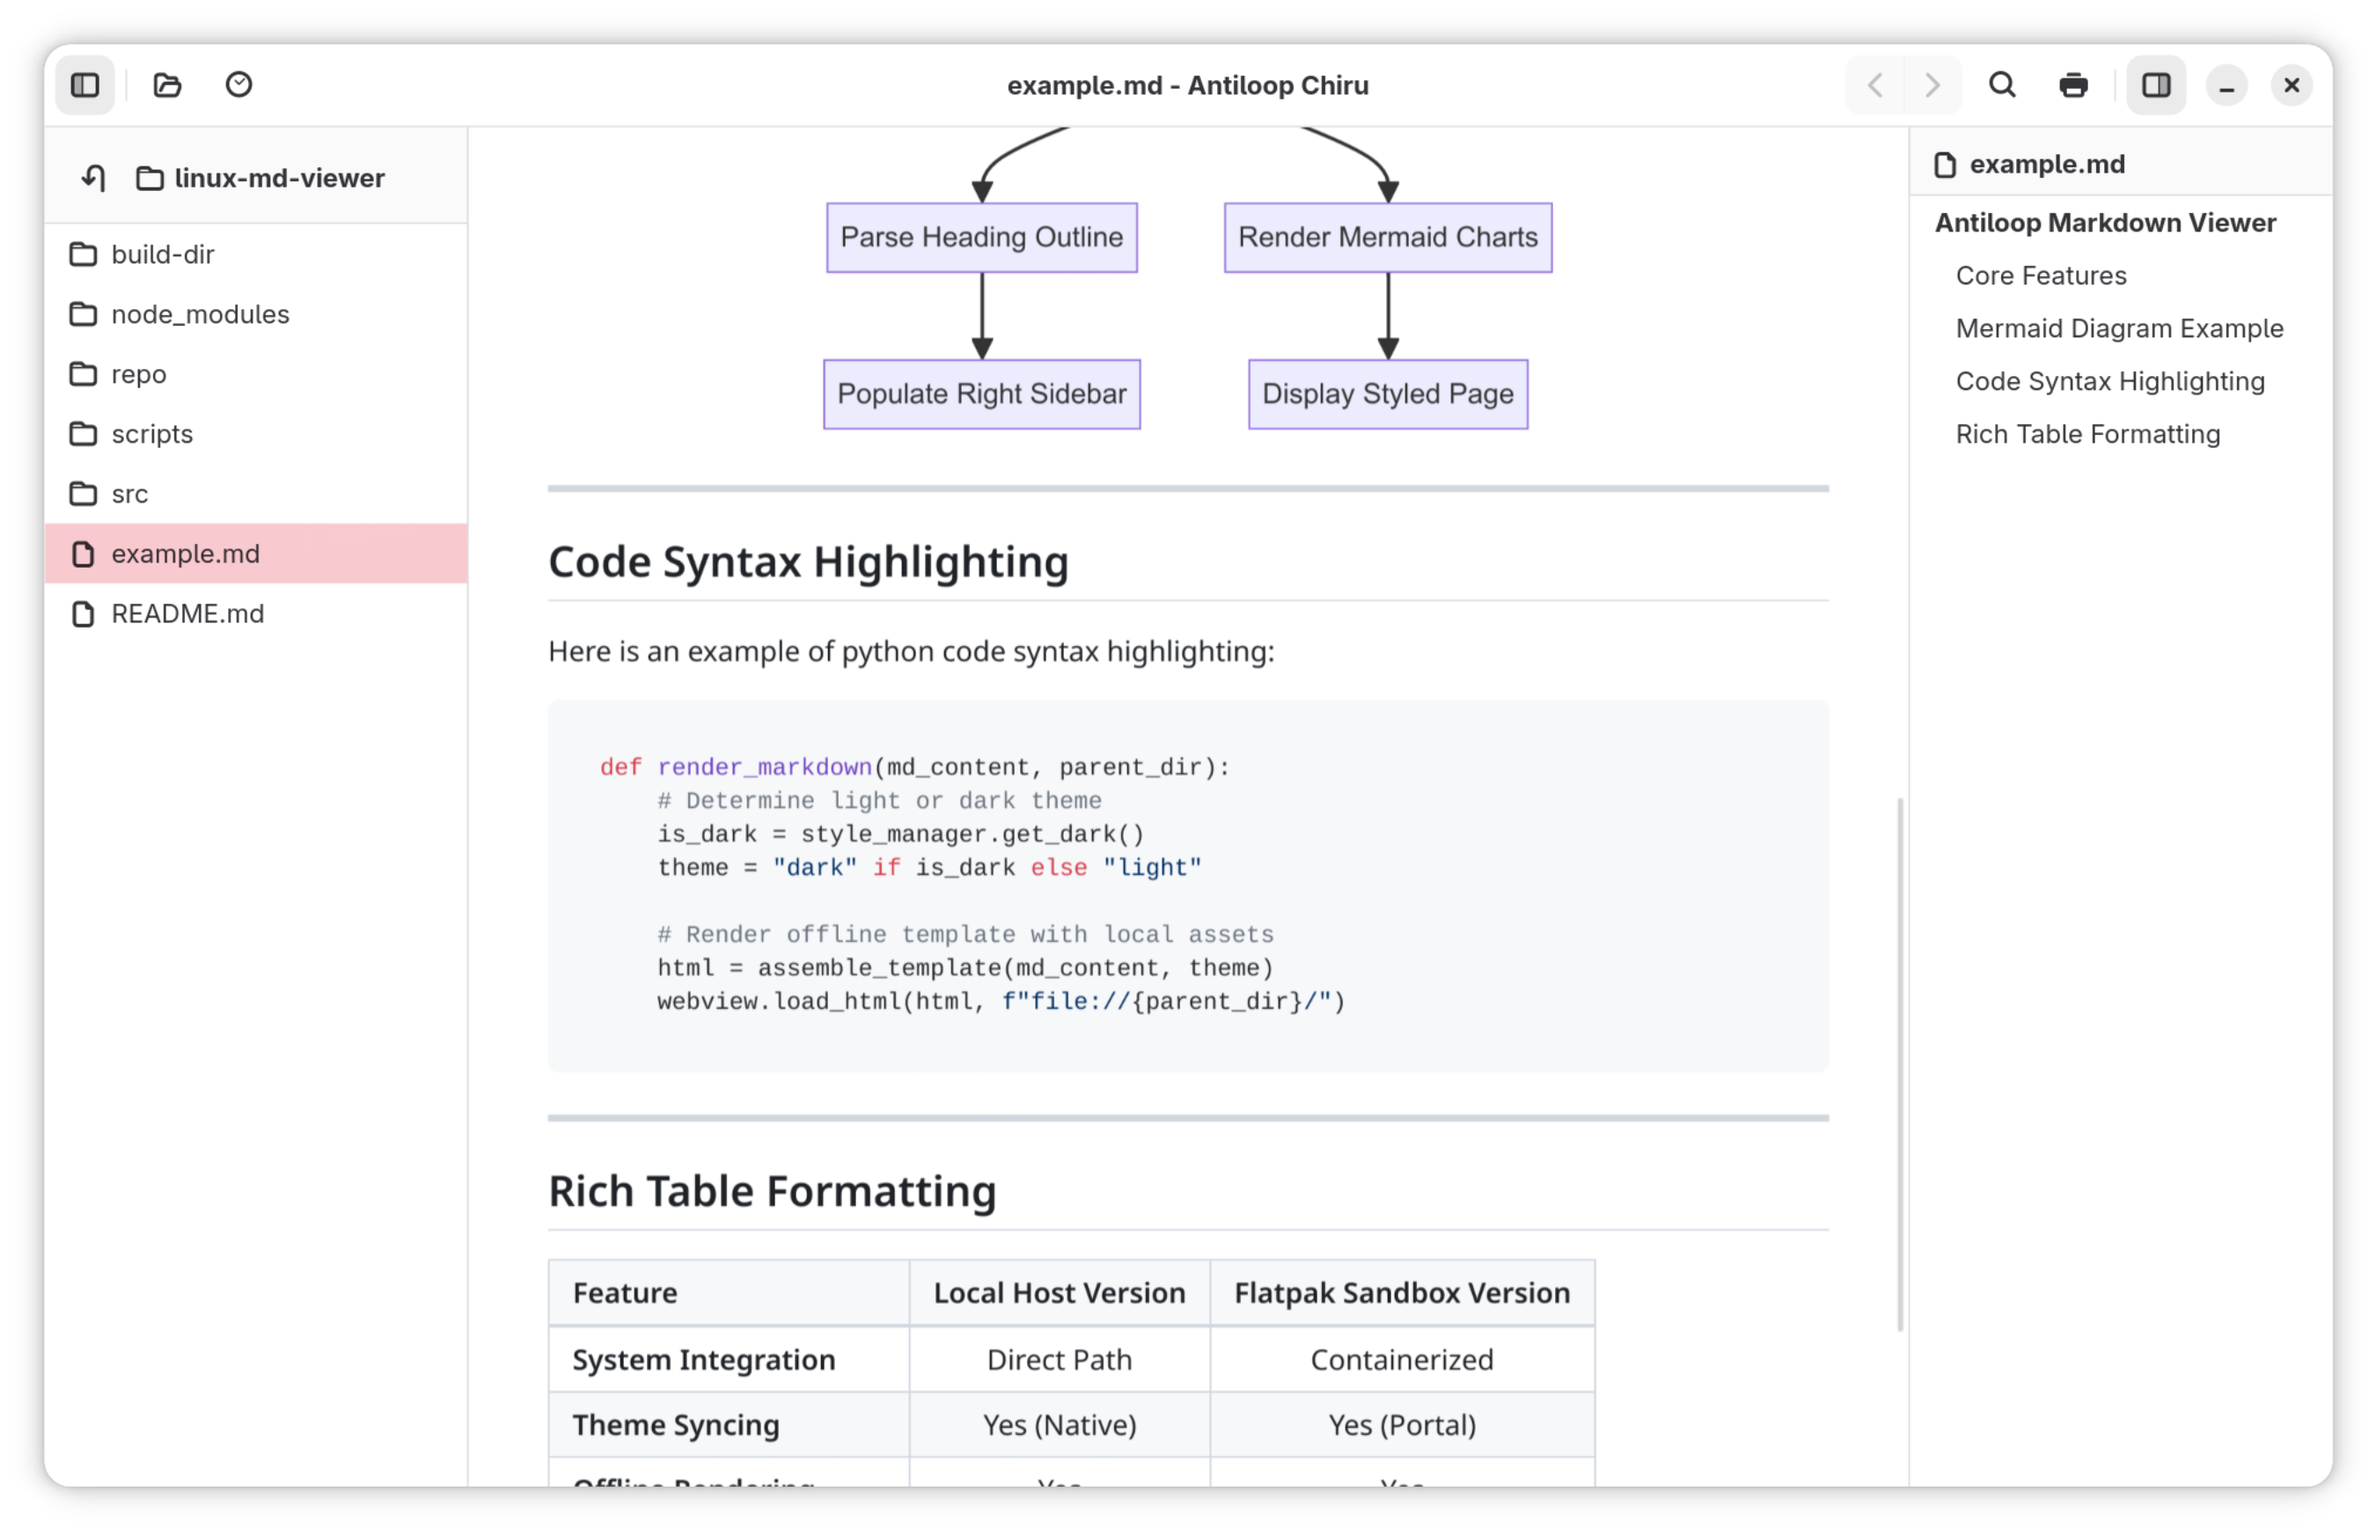
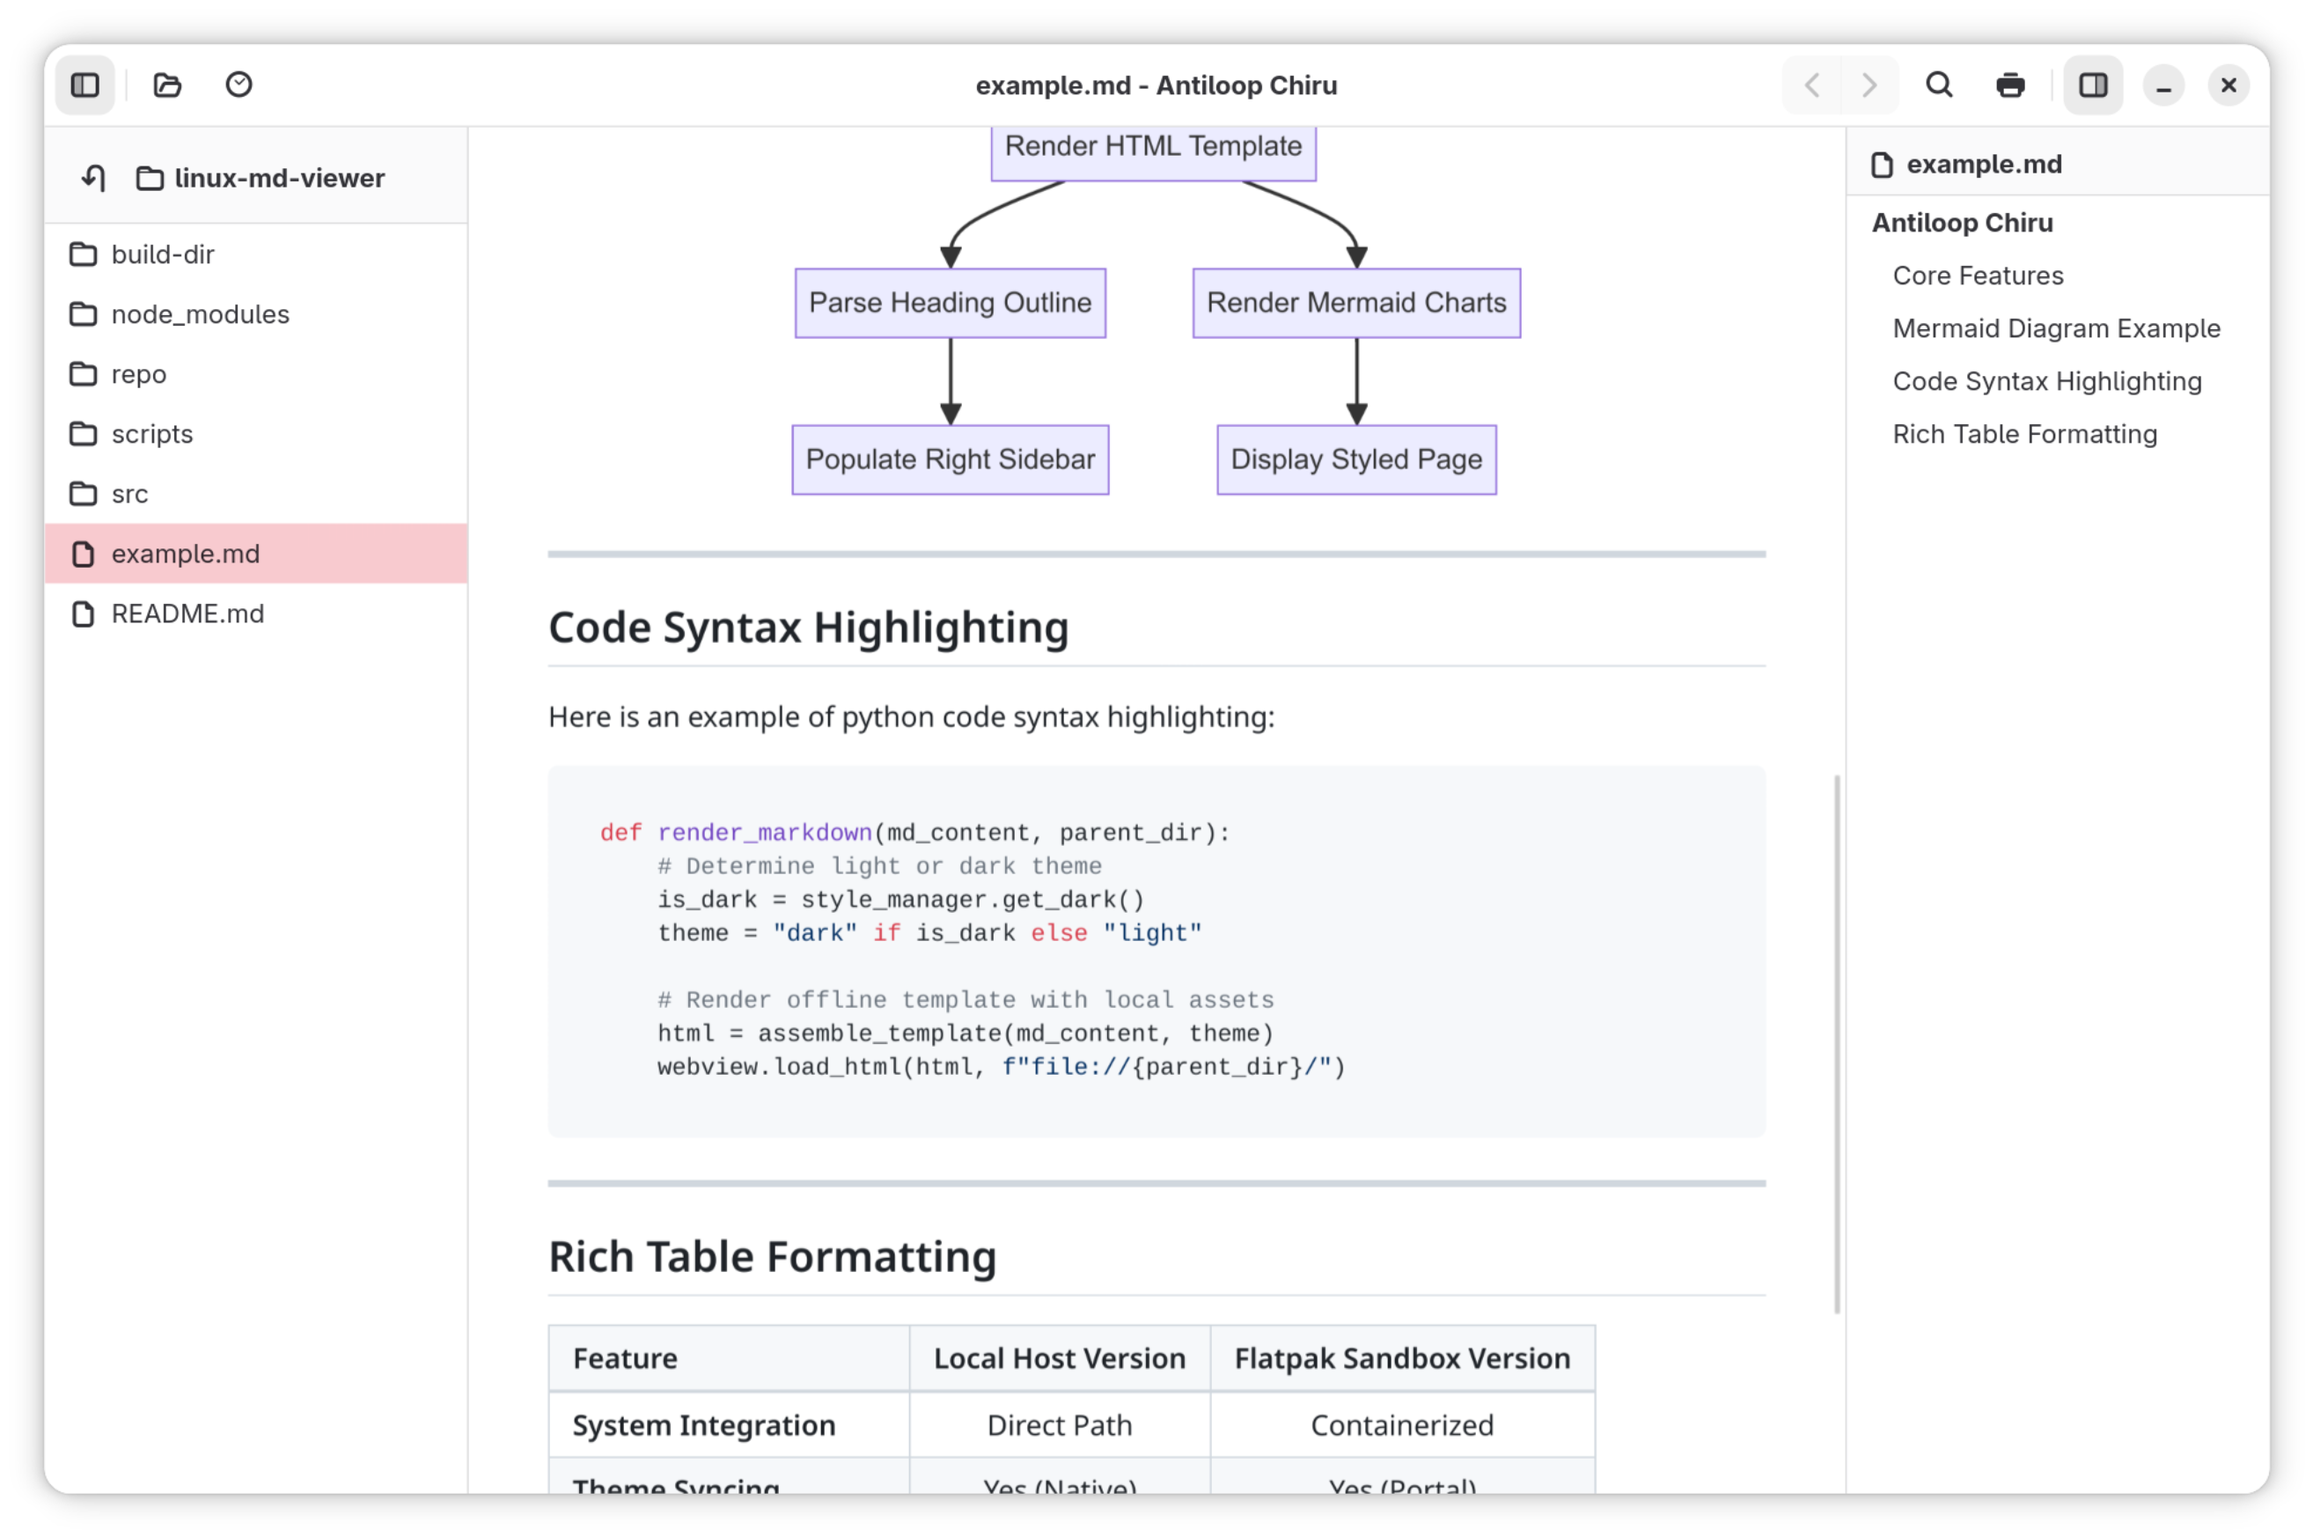
docs: rename example.md content to match Antiloop Chiru branding
example.md's own heading and intro text still said "Antiloop Markdown
Viewer" / "designed specifically for GNOME", which showed up verbatim
in the outline sidebar and body of the screenshot used in the README
and metainfo. Updates the text and refreshes screenshot.png to match.

diff --git a/example.md b/example.md
@@ -1,13 +1,13 @@
-# Antiloop Markdown Viewer
+# Antiloop Chiru
 
-Welcome to the **Antiloop Markdown Viewer**—a premium, offline-first Markdown reader designed specifically for GNOME. This application renders Markdown documents as styled HTML, providing a native look and feel that perfectly integrates with your system theme.
+Welcome to **Antiloop Chiru**—a premium, offline-first Markdown reader for GTK desktops. This application renders Markdown documents as styled HTML, providing a native look and feel that perfectly integrates with your system theme.
 
 ## Core Features
 
 - 📂 **Native File Browser**: View and open all Markdown files in the current directory from the left sidebar.
 - 📋 **Document Outline**: Navigate large documents easily using the auto-generated heading outline in the right sidebar.
 - 🔄 **History Navigation**: Move back and forward through visited files using mouse side buttons or header bar controls.
-- 🌓 **System Theme Sync**: Automatically synchronizes with GNOME light and dark mode preferences.
+- 🌓 **System Theme Sync**: Automatically synchronizes with your system's light and dark mode preferences.
 - 📊 **Mermaid Diagrams**: Fully renders flowcharts, sequence diagrams, and Gantt charts offline.
 - 💻 **Syntax Highlighting**: Beautiful theme-synchronized code block formatting.
 
